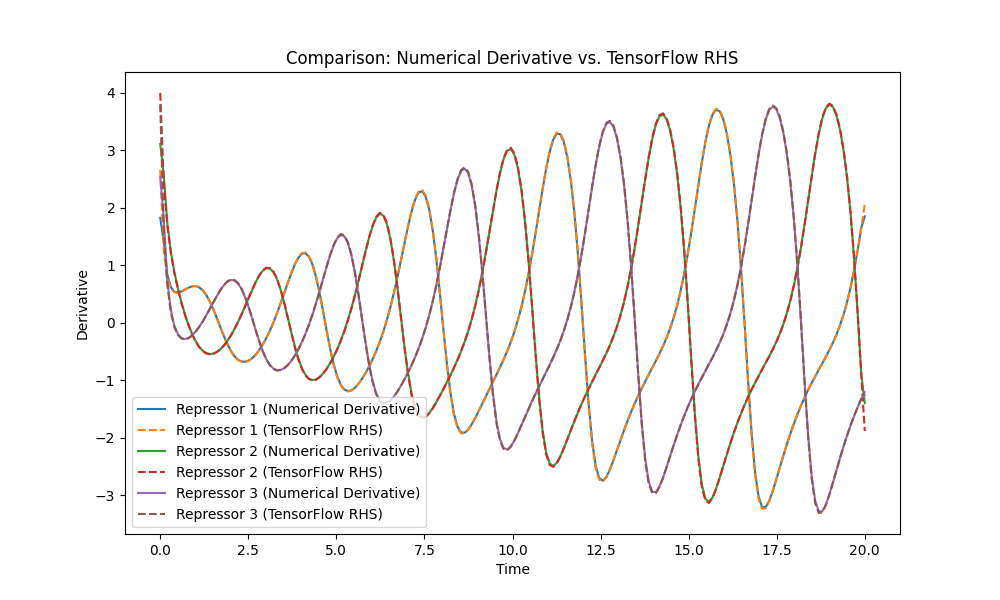
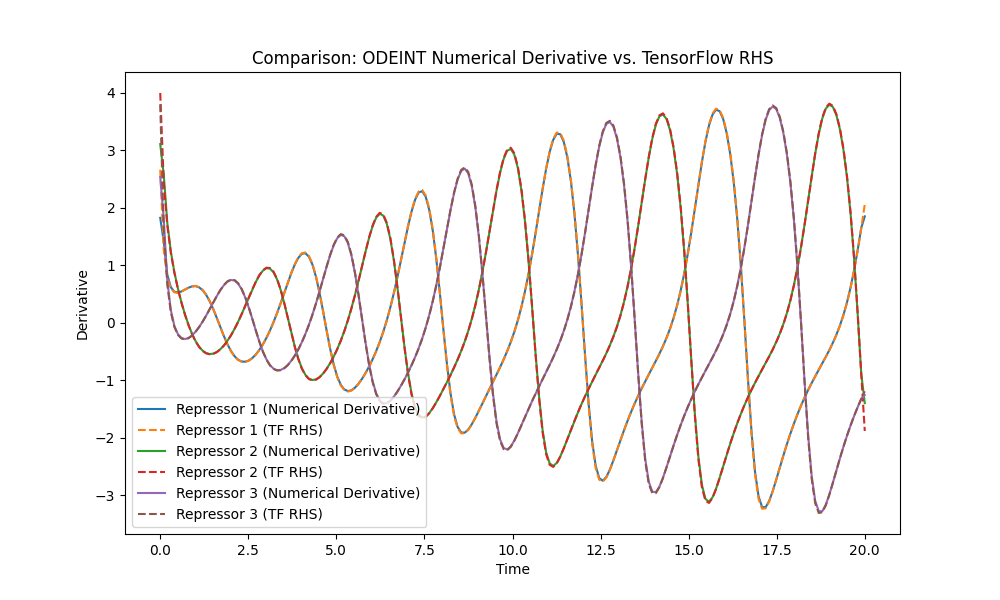
new figures

diff --git a/Scripts/Formulation/Formulation.py b/Scripts/Formulation/Formulation.py
@@ -53,10 +53,10 @@ sol_tensor = np.array(sol_tensor)
 # %% Plot protein concentrations (solution) from odeint
 plt.figure(figsize=(10, 6))
 for i, label in enumerate(["Repressor 1", "Repressor 2", "Repressor 3"]):
-    plt.plot(t_values, sol_odeint[:, i], label=f"{label} (ODEINT)")
+    plt.plot(t_values, sol_odeint[:, i], label=f"{label}")
 plt.xlabel("Time")
 plt.ylabel("Protein Concentration")
-plt.title("Repressilator Dynamics")
+plt.title("Simulation of Repressilator Dynamics using ODEINT")
 plt.legend()
 plt.show()
 
@@ -64,9 +64,9 @@ plt.show()
 plt.figure(figsize=(10, 6))
 for i, label in enumerate(["Repressor 1", "Repressor 2", "Repressor 3"]):
     plt.plot(t_values, deriv_numeric[:, i], label=f"{label} (Numerical Derivative)")
-    plt.plot(t_values, sol_tensor[:, i], "--", label=f"{label} (TensorFlow RHS)")
+    plt.plot(t_values, sol_tensor[:, i], "--", label=f"{label} (TF RHS)")
 plt.xlabel("Time")
 plt.ylabel("Derivative")
-plt.title("Comparison: Numerical Derivative vs. TensorFlow RHS")
+plt.title("Comparison: ODEINT Numerical Derivative vs. TensorFlow RHS")
 plt.legend()
 plt.show()

diff --git a/Scripts/Main Experiment/Forward_Repressilator.py b/Scripts/Main Experiment/Forward_Repressilator.py
@@ -102,7 +102,7 @@ component_names = [
 plt.figure(figsize=(10, 6))
 for i in range(len(component_names)):
     plt.semilogy(epochs, loss_components[i], label=component_names[i])
-    
+
 plt.xlabel("Iteration")
 plt.ylabel("Loss (log scale)")
 plt.title("Training Loss over Iterations")
@@ -112,7 +112,7 @@ plt.show()
 
 # %% Plot the prediction results
 plt.figure(figsize=(12, 6))
-labels = ["x1", "x2", "x3"]
+labels = ["Repressor 1", "Repressor 2", "Repressor 3"]
 colors = ["tab:blue", "tab:orange", "tab:green"]
 
 for i in range(3):
